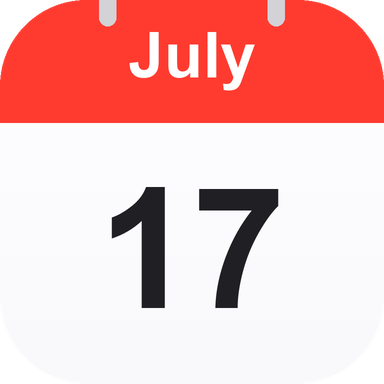
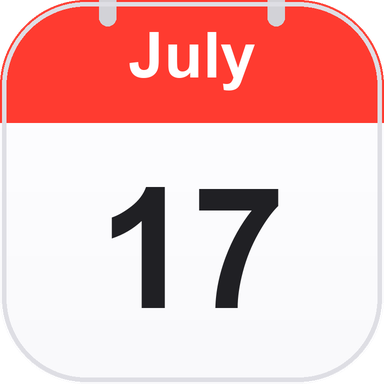
日历图标加浅灰描边，首页 hero 显示尺寸 52rpx→64rpx

diff --git a/tools/gen-calendar-icon.py b/tools/gen-calendar-icon.py
@@ -62,6 +62,12 @@ l, t, r, b = d.textbbox((0, 0), DATE, font=df)
 y0 = header_h + (SIZE - header_h - (b - t)) / 2 - t - SIZE * 0.015
 d.text(((SIZE - (r - l)) / 2 - l, y0), DATE, font=df, fill=DARK + (255,))
 
+# 浅灰描边：白底在浅色背景上需要边界
+bw = max(2, int(SIZE * 0.012))
+ImageDraw.Draw(img).rounded_rectangle(
+    [bw // 2, bw // 2, SIZE - 1 - bw // 2, SIZE - 1 - bw // 2],
+    radius=radius - bw // 2, outline=(222, 222, 228, 255), width=bw)
+
 img = img.resize((384, 384), Image.LANCZOS)
 img.save(OUT)
 print("saved", OUT)
